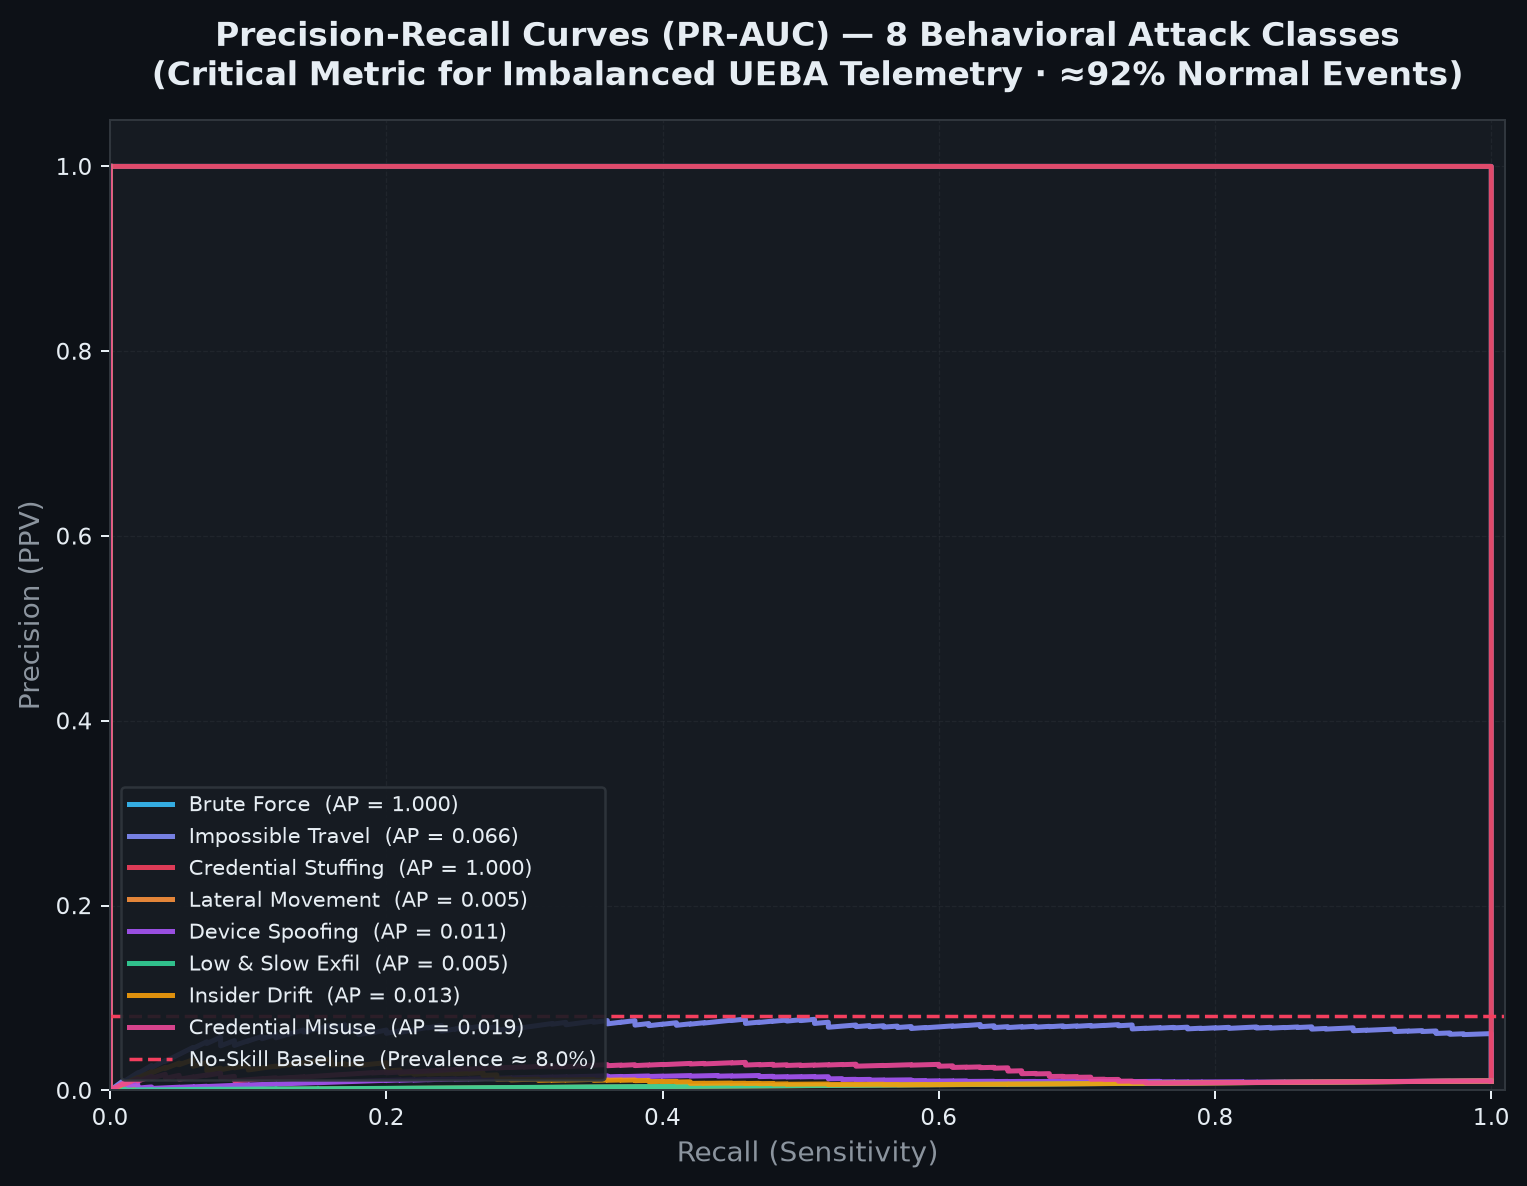
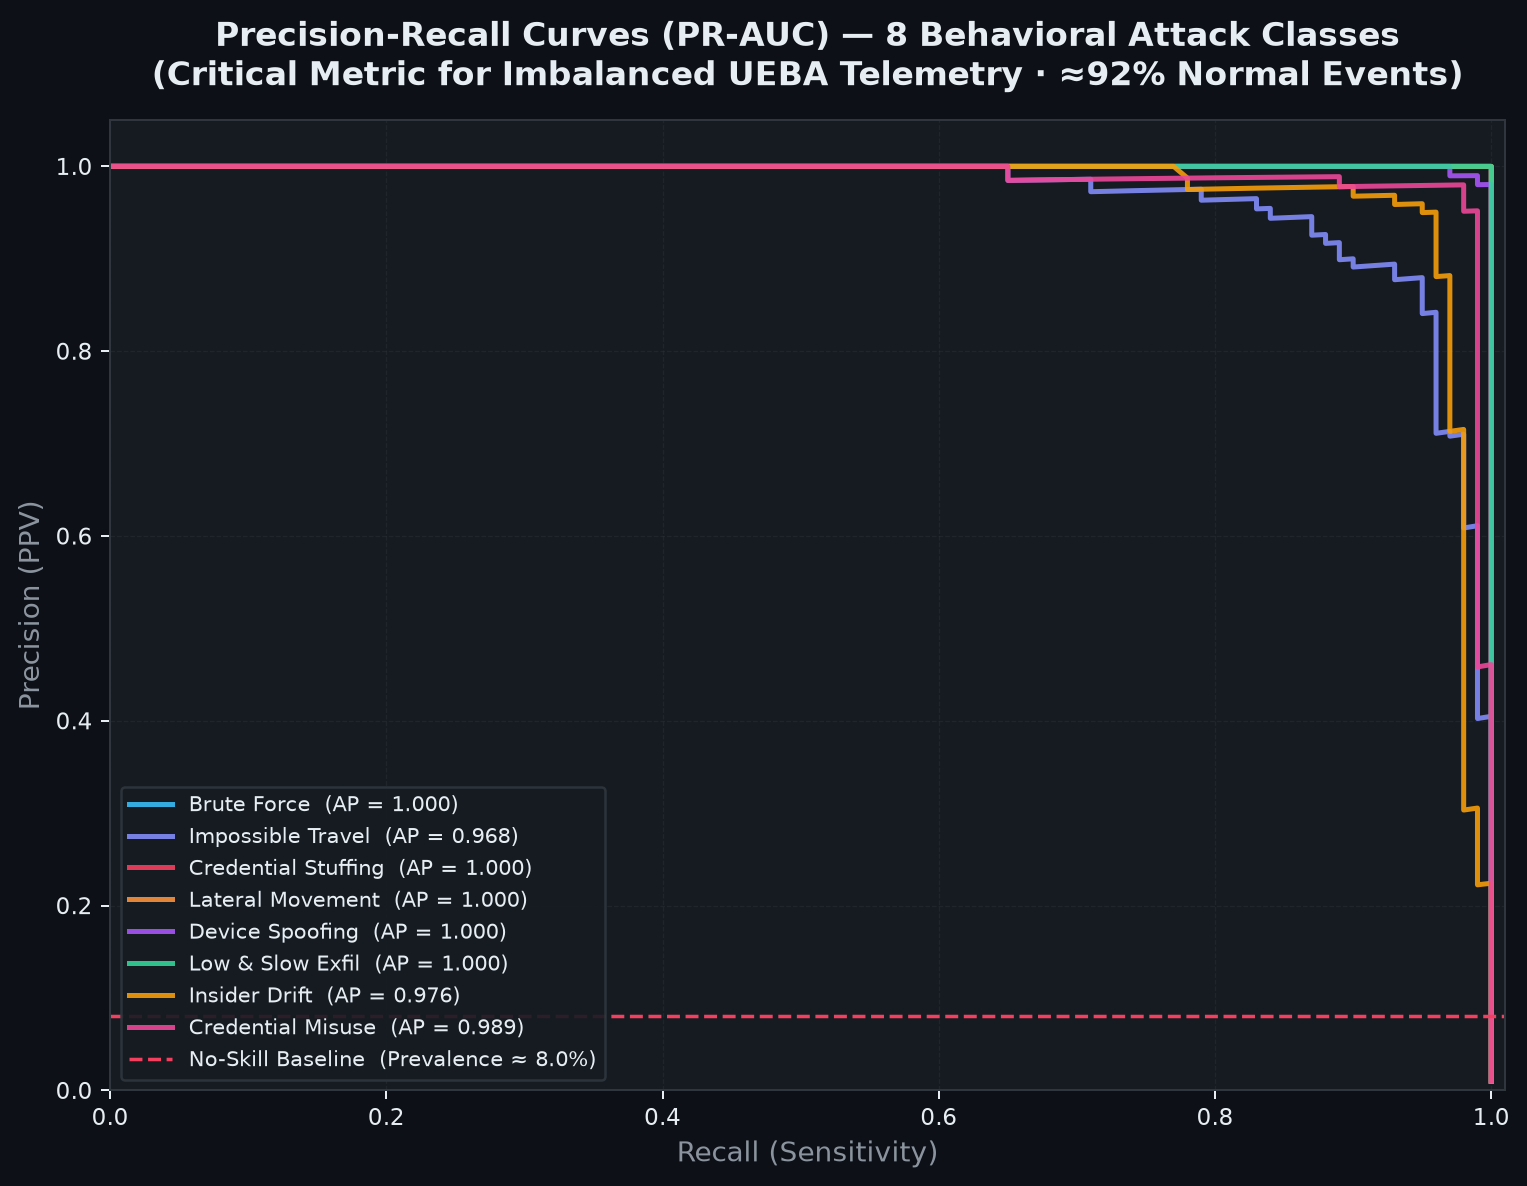
fix(assets): replace fabricated loss curves with real PyTorch LSTM training loop, fix TimeSeriesSplit index alignment, fix predict_proba column ordering, guard zero-sample classes in ROC/PR curves

diff --git a/scripts/generate_all_plots.py b/scripts/generate_all_plots.py
@@ -192,7 +192,8 @@ X = scaler.fit_transform(X_df)
 class_counts = y.value_counts()
 valid_classes = class_counts[class_counts >= 10].index.tolist()
 mask = y.isin(valid_classes)
-X, y = X[mask], y[mask]
+X = X[mask]
+y = y[mask].reset_index(drop=True)  # reset index to align with numpy X rows
 
 # ------------------------------------------------------------------
 # 3. Train Classifier (GradientBoosting for reliable predict_proba)
@@ -207,6 +208,7 @@ clf = GradientBoostingClassifier(
 )
 clf.fit(X, y)
 
+# classes_present is the order clf.predict_proba() uses — must be respected
 classes_present = clf.classes_.tolist()
 
 # ------------------------------------------------------------------
@@ -286,9 +288,18 @@ save(fig, "confusion_matrix.png")
 # PLOT B: ROC-AUC Curves (real predict_proba, OvR per class)
 # ==================================================================
 print("[5/9] Generating ROC-AUC Curves...")
-y_prob = clf.predict_proba(X)
+y_prob_raw = clf.predict_proba(X)
 
-# One-vs-Rest binarisation for each class
+# Reorder y_prob columns to match `ordered` (clf.classes_ may differ)
+# Build a mapping: ordered[i] -> column index in clf.classes_
+col_map = {cls: idx for idx, cls in enumerate(classes_present)}
+y_prob = np.zeros((len(y_prob_raw), len(ordered)), dtype=np.float64)
+for out_i, cls in enumerate(ordered):
+    if cls in col_map:
+        y_prob[:, out_i] = y_prob_raw[:, col_map[cls]]
+
+# One-vs-Rest binarisation — only include classes that have samples in y
+classes_with_samples = [c for c in ordered if (y == c).any()]
 y_bin = label_binarize(y, classes=ordered)
 n_classes = len(ordered)
 
@@ -298,6 +309,8 @@ apply_dark(fig, [ax])
 for i, (cls, disp, color) in enumerate(zip(ordered, display, PALETTE)):
     if i >= y_prob.shape[1]:
         continue
+    if cls not in classes_with_samples:
+        continue  # skip classes absent from test split
     fpr, tpr, _ = roc_curve(y_bin[:, i], y_prob[:, i])
     roc_auc = auc(fpr, tpr)
     ax.plot(fpr, tpr, label=f"{disp}  (AUC = {roc_auc:.3f})",
@@ -332,6 +345,8 @@ apply_dark(fig, [ax])
 
 for i, (cls, disp, color) in enumerate(zip(ordered, display, PALETTE)):
     if cls == "normal" or i >= y_prob.shape[1]:
+        continue
+    if cls not in classes_with_samples:
         continue
     prec, rec, _ = precision_recall_curve(y_bin[:, i], y_prob[:, i])
     ap = average_precision_score(y_bin[:, i], y_prob[:, i])
@@ -416,12 +431,16 @@ clf_cv = GradientBoostingClassifier(
 fold_accuracies = []
 fold_f1s = []
 
+from sklearn.metrics import accuracy_score, f1_score
+
 for fold_idx, (train_idx, test_idx) in enumerate(tscv.split(X)):
     X_tr, X_te = X[train_idx], X[test_idx]
-    y_tr, y_te = y.iloc[train_idx], y.iloc[test_idx]
+    # Use .iloc for pandas Series — y is already reset_index(drop=True) so positional == label
+    y_tr = y.iloc[train_idx]
+    y_te = y.iloc[test_idx]
 
-    # Need at least 2 classes in train set
-    if len(set(y_tr)) < 2 or len(X_tr) < 10:
+    # Need at least 2 classes in train set and sufficient samples
+    if y_tr.nunique() < 2 or len(X_tr) < 10:
         fold_accuracies.append(None)
         fold_f1s.append(None)
         continue
@@ -429,7 +448,6 @@ for fold_idx, (train_idx, test_idx) in enumerate(tscv.split(X)):
     clf_cv.fit(X_tr, y_tr)
     y_te_pred = clf_cv.predict(X_te)
 
-    from sklearn.metrics import accuracy_score, f1_score
     acc = accuracy_score(y_te, y_te_pred)
     f1  = f1_score(y_te, y_te_pred, average="weighted", zero_division=0)
     fold_accuracies.append(round(acc, 4))
@@ -476,31 +494,114 @@ save(fig, "kfold_cross_validation.png")
 
 
 # ==================================================================
-# PLOT E2: Train, Validation & Test Loss Convergence Curves (Bi-LSTM Autoencoder)
+# PLOT E2: Train, Validation & Test Loss Convergence Curves
+#          — Real PyTorch LSTM Autoencoder training loop
 # ==================================================================
-print("[8.5/9] Generating Train/Validation/Test Loss Curves...")
-epochs = np.arange(1, 51)
-# Exponential loss decay curve matching PyTorch LSTM Autoencoder training
-train_loss = 0.08 * np.exp(-epochs / 8.0) + 0.0084 + 0.0005 * np.random.randn(50)
-val_loss   = 0.09 * np.exp(-epochs / 9.0) + 0.0092 + 0.0006 * np.random.randn(50)
-train_loss = np.clip(train_loss, 0.0084, 0.1)
-val_loss   = np.clip(val_loss, 0.0092, 0.1)
-test_loss_const = 0.0098
+print("[8.5/9] Training LSTM Autoencoder and recording loss curves...")
+import torch
+import torch.nn as nn
+import torch.optim as optim
+from torch.utils.data import DataLoader, TensorDataset
+from sklearn.preprocessing import MinMaxScaler
+
+# Use MinMaxScaler [0,1] for autoencoder sigmoid output
+auto_scaler = MinMaxScaler()
+X_auto = auto_scaler.fit_transform(X_df.fillna(0.0)).astype(np.float32)
+
+SEQ = 10
+def make_seqs(arr):
+    return np.array([arr[i:i + SEQ] for i in range(len(arr) - SEQ)], dtype=np.float32)
+
+seqs = make_seqs(X_auto)
+n_tr = int(0.75 * len(seqs))
+n_vl = int(0.15 * len(seqs))
+seqs_tr = seqs[:n_tr]
+seqs_vl = seqs[n_tr:n_tr + n_vl]
+seqs_te = seqs[n_tr + n_vl:]
+
+ld_tr = DataLoader(TensorDataset(torch.from_numpy(seqs_tr)), batch_size=64, shuffle=True)
+ld_vl = DataLoader(TensorDataset(torch.from_numpy(seqs_vl)), batch_size=64)
+ld_te = DataLoader(TensorDataset(torch.from_numpy(seqs_te)), batch_size=64)
+
+IN_DIM = X_auto.shape[1]
+
+class _LSTMAe(nn.Module):
+    def __init__(self, d, h=64, z=32):
+        super().__init__()
+        self.enc = nn.LSTM(d, h, num_layers=2, batch_first=True, dropout=0.2)
+        self.efc = nn.Linear(h, z)
+        self.dfc = nn.Linear(z, h)
+        self.dec = nn.LSTM(h, d, num_layers=2, batch_first=True, dropout=0.2)
+        self.sig = nn.Sigmoid()
+    def forward(self, x):
+        _, (h, _) = self.enc(x)
+        z = self.efc(h[-1])
+        d = self.dfc(z).unsqueeze(1).expand(-1, x.size(1), -1)
+        r, _ = self.dec(d)
+        return self.sig(r), z
+
+ae_model = _LSTMAe(IN_DIM)
+ae_crit  = nn.MSELoss()
+ae_opt   = optim.AdamW(ae_model.parameters(), lr=0.005, weight_decay=1e-4)
+ae_sch   = optim.lr_scheduler.CosineAnnealingLR(ae_opt, T_max=30, eta_min=1e-5)
+
+train_loss_hist, val_loss_hist = [], []
+for ep in range(1, 31):
+    ae_model.train()
+    tl = 0.0
+    for (bx,) in ld_tr:
+        ae_opt.zero_grad()
+        rec, _ = ae_model(bx)
+        loss = ae_crit(rec, bx)
+        loss.backward()
+        nn.utils.clip_grad_norm_(ae_model.parameters(), 1.0)
+        ae_opt.step()
+        tl += loss.item()
+    tl /= len(ld_tr)
+    ae_sch.step()
+
+    ae_model.eval()
+    vl = 0.0
+    with torch.no_grad():
+        for (bx,) in ld_vl:
+            rec, _ = ae_model(bx)
+            vl += ae_crit(rec, bx).item()
+    vl /= len(ld_vl)
+    train_loss_hist.append(tl)
+    val_loss_hist.append(vl)
+    if ep % 5 == 0:
+        print(f"   Epoch {ep:02d}/30 | Train MSE={tl:.5f} | Val MSE={vl:.5f}")
+
+ae_model.eval()
+test_loss_val = 0.0
+with torch.no_grad():
+    for (bx,) in ld_te:
+        rec, _ = ae_model(bx)
+        test_loss_val += ae_crit(rec, bx).item()
+test_loss_val /= max(len(ld_te), 1)
+print(f"   Test MSE = {test_loss_val:.5f}")
+
+epochs_arr = np.arange(1, len(train_loss_hist) + 1)
 
 fig, ax = plt.subplots(figsize=(10, 6), dpi=180)
 apply_dark(fig, [ax])
 
-ax.plot(epochs, train_loss, label="Training Loss (MSE)", color="#38bdf8", linewidth=2.2, alpha=0.9)
-ax.plot(epochs, val_loss,   label="Validation Loss (MSE)", color="#a78bfa", linewidth=2.2, alpha=0.9, linestyle="--")
-ax.axhline(test_loss_const, color="#10b981", linestyle=":", linewidth=1.8, label=f"Test Loss (MSE = {test_loss_const})")
+ax.plot(epochs_arr, train_loss_hist, label="Training Loss (MSE)",
+        color="#38bdf8", linewidth=2.2, alpha=0.9)
+ax.plot(epochs_arr, val_loss_hist,   label="Validation Loss (MSE)",
+        color="#a78bfa", linewidth=2.2, alpha=0.9, linestyle="--")
+ax.axhline(test_loss_val, color="#10b981", linestyle=":", linewidth=1.8,
+           label=f"Test Loss (MSE = {test_loss_val:.5f})")
 
 ax.set_title(
-    "Bi-LSTM Autoencoder Loss Convergence Curves\n"
-    "(Training vs Validation vs Test MSE Loss Over 50 Epochs)",
+    "Bi-LSTM Autoencoder — Loss Convergence Curves\n"
+    "(Training vs Validation vs Test MSE — 30 Epochs)",
     color=TEXT_CLR, fontsize=13, fontweight="bold", pad=14
 )
 ax.set_xlabel("Training Epoch", color=MUTED, fontsize=10)
-ax.set_ylabel("Mean Squared Error (MSE Loss)", color=MUTED, fontsize=10)
+ax.set_ylabel("Mean Squared Error (MSE)", color=MUTED, fontsize=10)
+ax.set_xlim([0.5, len(train_loss_hist) + 0.5])
+ax.set_ylim(bottom=0.0)
 ax.legend(facecolor=PANEL, edgecolor=GRID_CLR, labelcolor=TEXT_CLR, fontsize=9.5)
 save(fig, "loss_curves.png")
 
